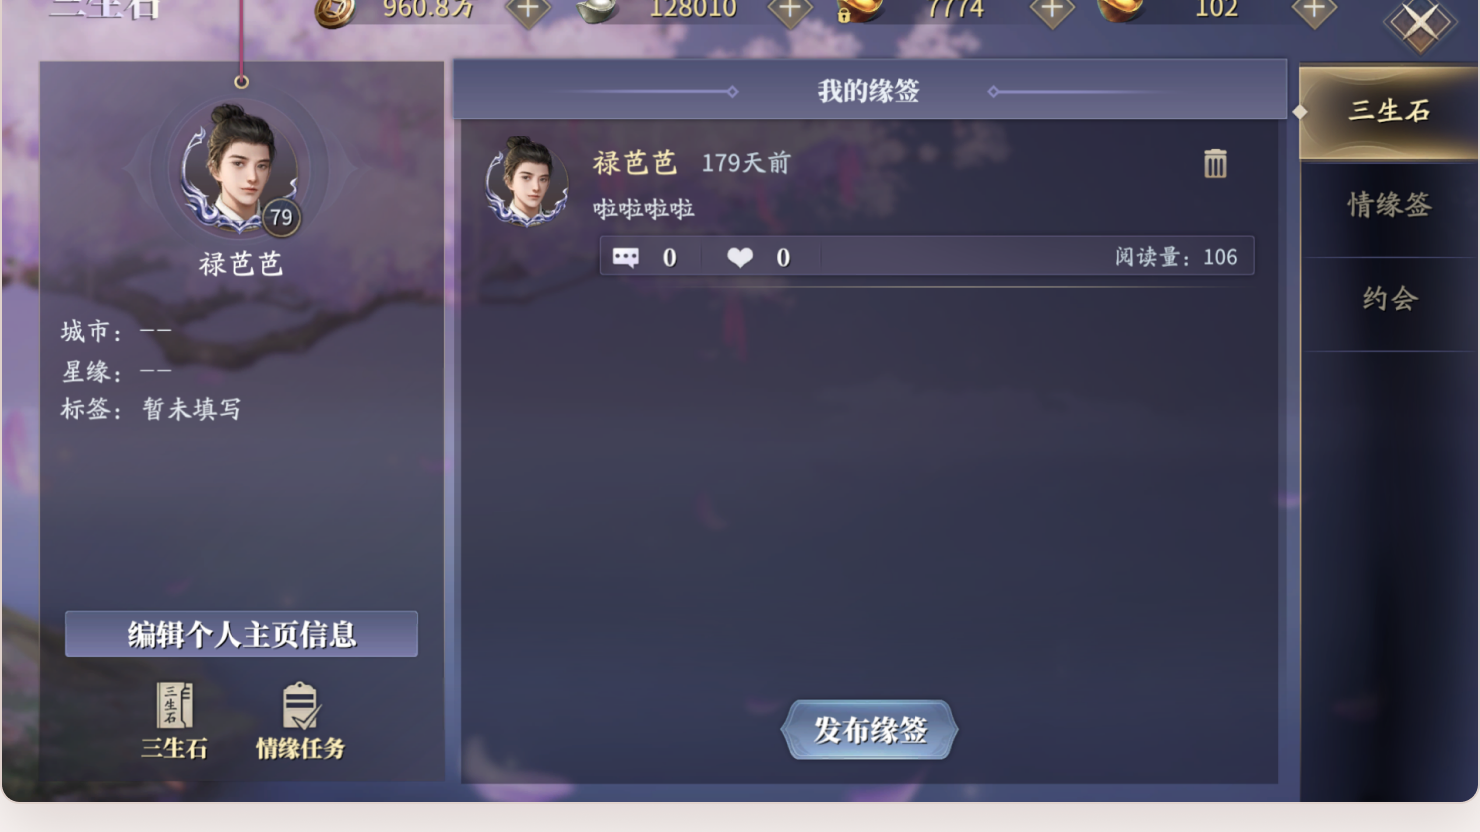
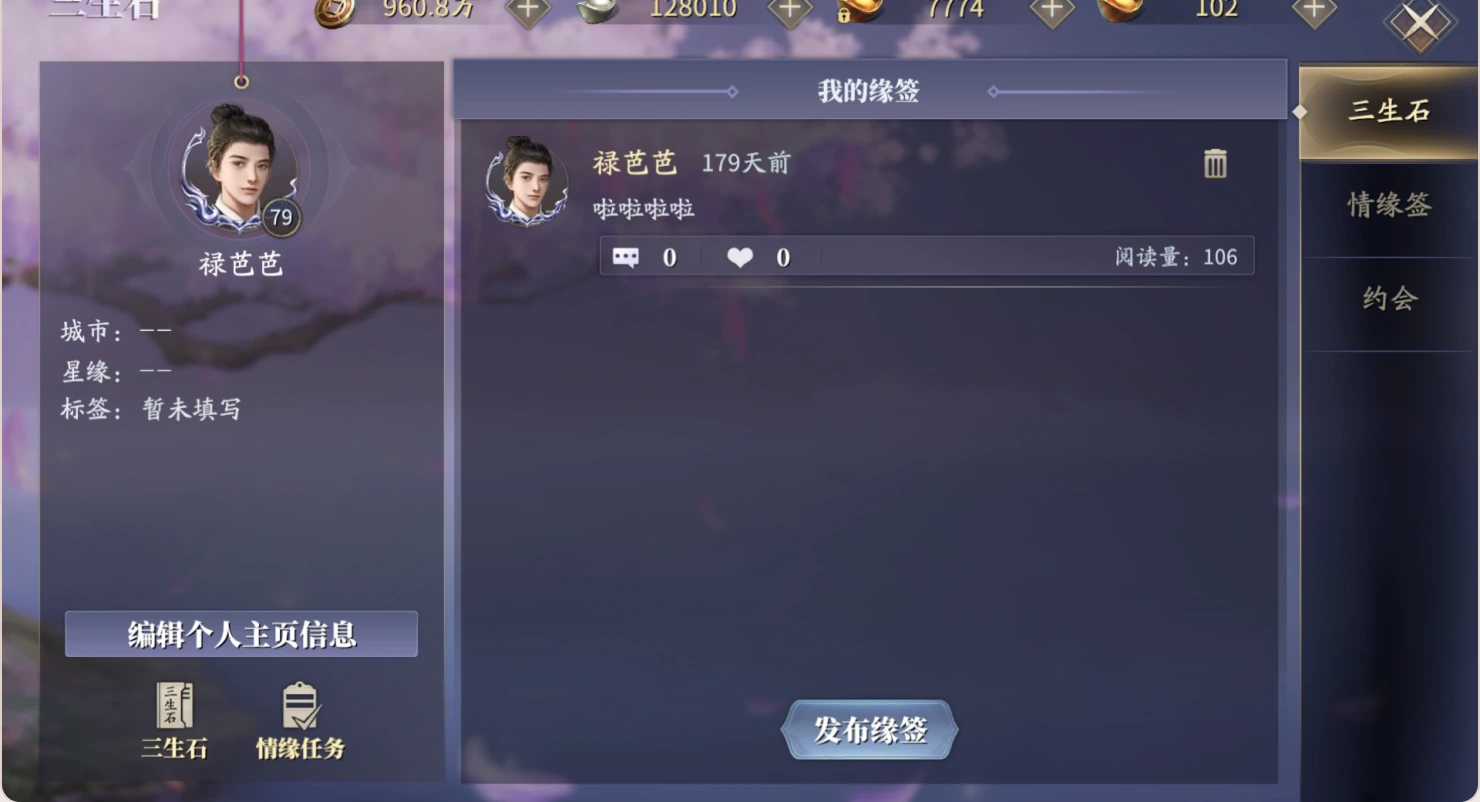
Crop the page background out of the four flow screenshots
The 1920x1080 sources placed in Figma were captured with 14-15 board
px of light page background below the game UI, so the board renders
it too and the page reproduced it faithfully. Cropped from the
assets and top-aligned; the frame's own #1a1012 ground fills the
remainder, so the 740x416 frames and all 20 pins stay on the board's
coordinates. Deliberate departure from the board.

The clipped top bar cannot be fixed from here: the Figma sources are
1920x1080 at the frame's own aspect, so nothing is hidden by FILL.

diff --git a/site/src/components/WeddingExactCase.css b/site/src/components/WeddingExactCase.css
@@ -122,7 +122,10 @@
 /* Figma paints these 1px strokes with strokeAlign INSIDE, so they overlay the shot; a real
    CSS border would reserve a track and re-crop the image through object-fit. */
 .we-cover-img::after, .we-screen-section .we-shot-wrap::after, .we-venue-img::after { content: ""; position: absolute; inset: 0; border: 1px solid var(--we-shot-edge); border-radius: inherit; pointer-events: none; }
-.we-shot { width: 100%; height: 100%; object-fit: cover; border-radius: 10px; }
+/* The four flow screenshots were captured with a strip of page background under the UI.
+   Cropped out of the assets; the image now top-aligns and the frame's own dark ground
+   fills the last ~15px, which keeps every board coordinate (frame and pins) untouched. */
+.we-shot { display: block; width: 100%; height: auto; border-radius: 10px; }
 .we-pin { position: absolute; display: grid; place-items: center; width: 28px; height: 28px; border: 2px solid #fff; border-radius: 50%; background: #c8607a; color: #fff; font-size: 14px; font-weight: 600; line-height: 1; z-index: 5; }
 .we-pin.dark { background: #d9607a; }
 .we-point-list { position: absolute; left: 856px; top: 300px; width: 344px; }
